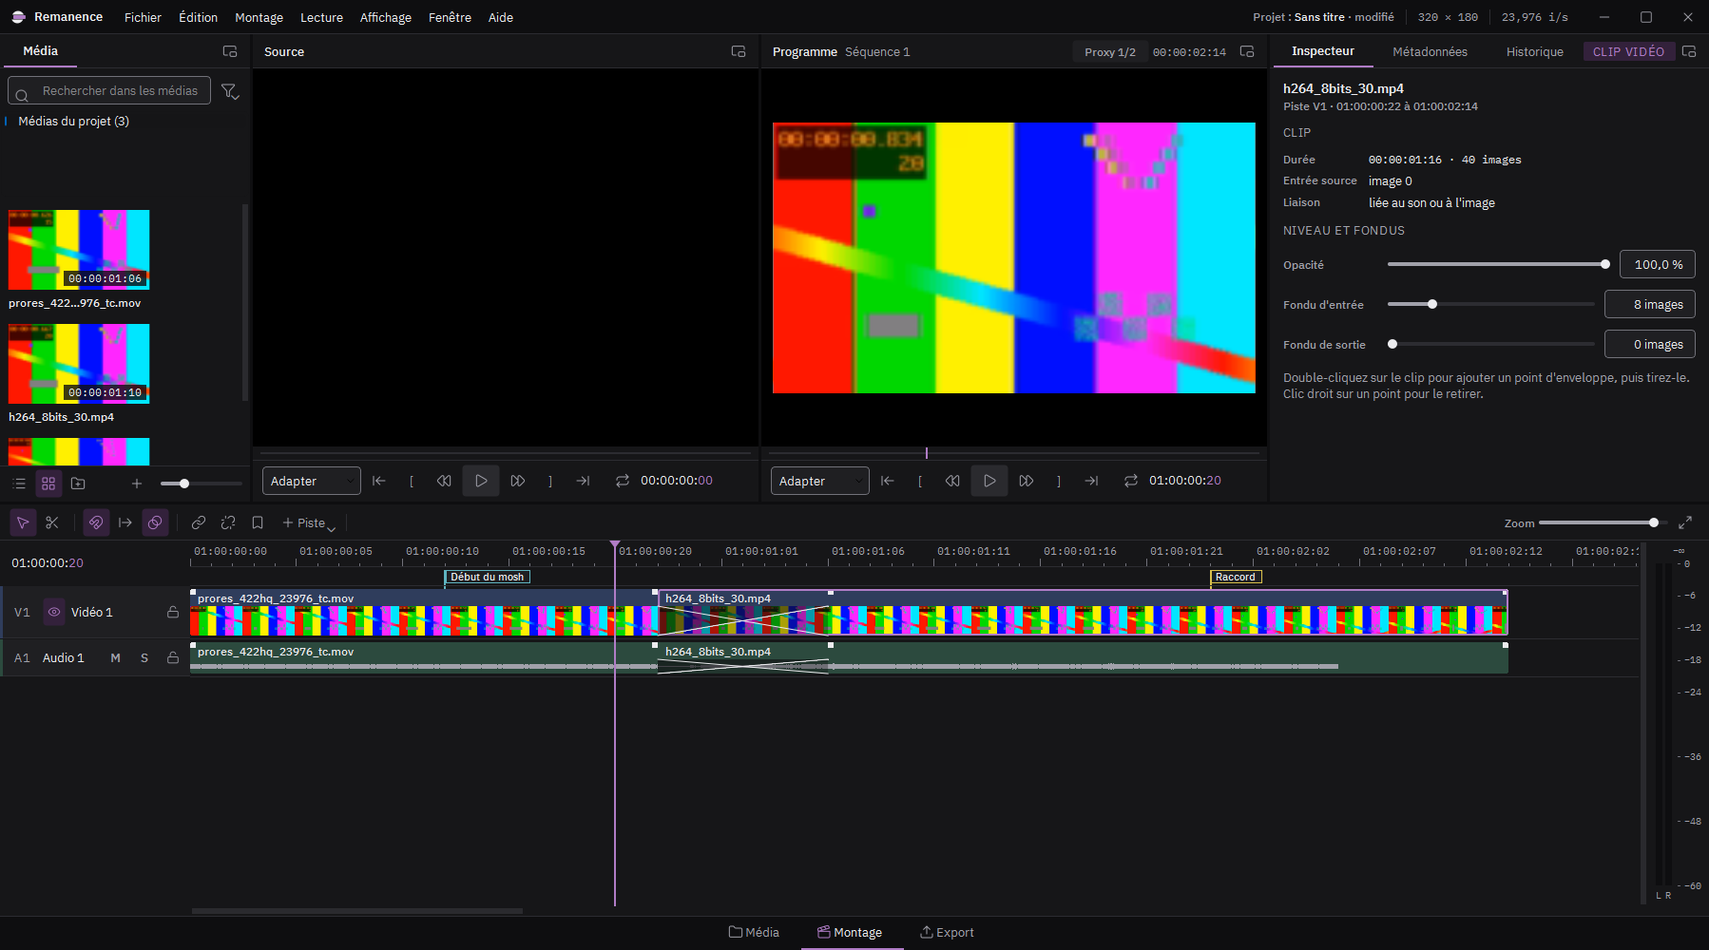
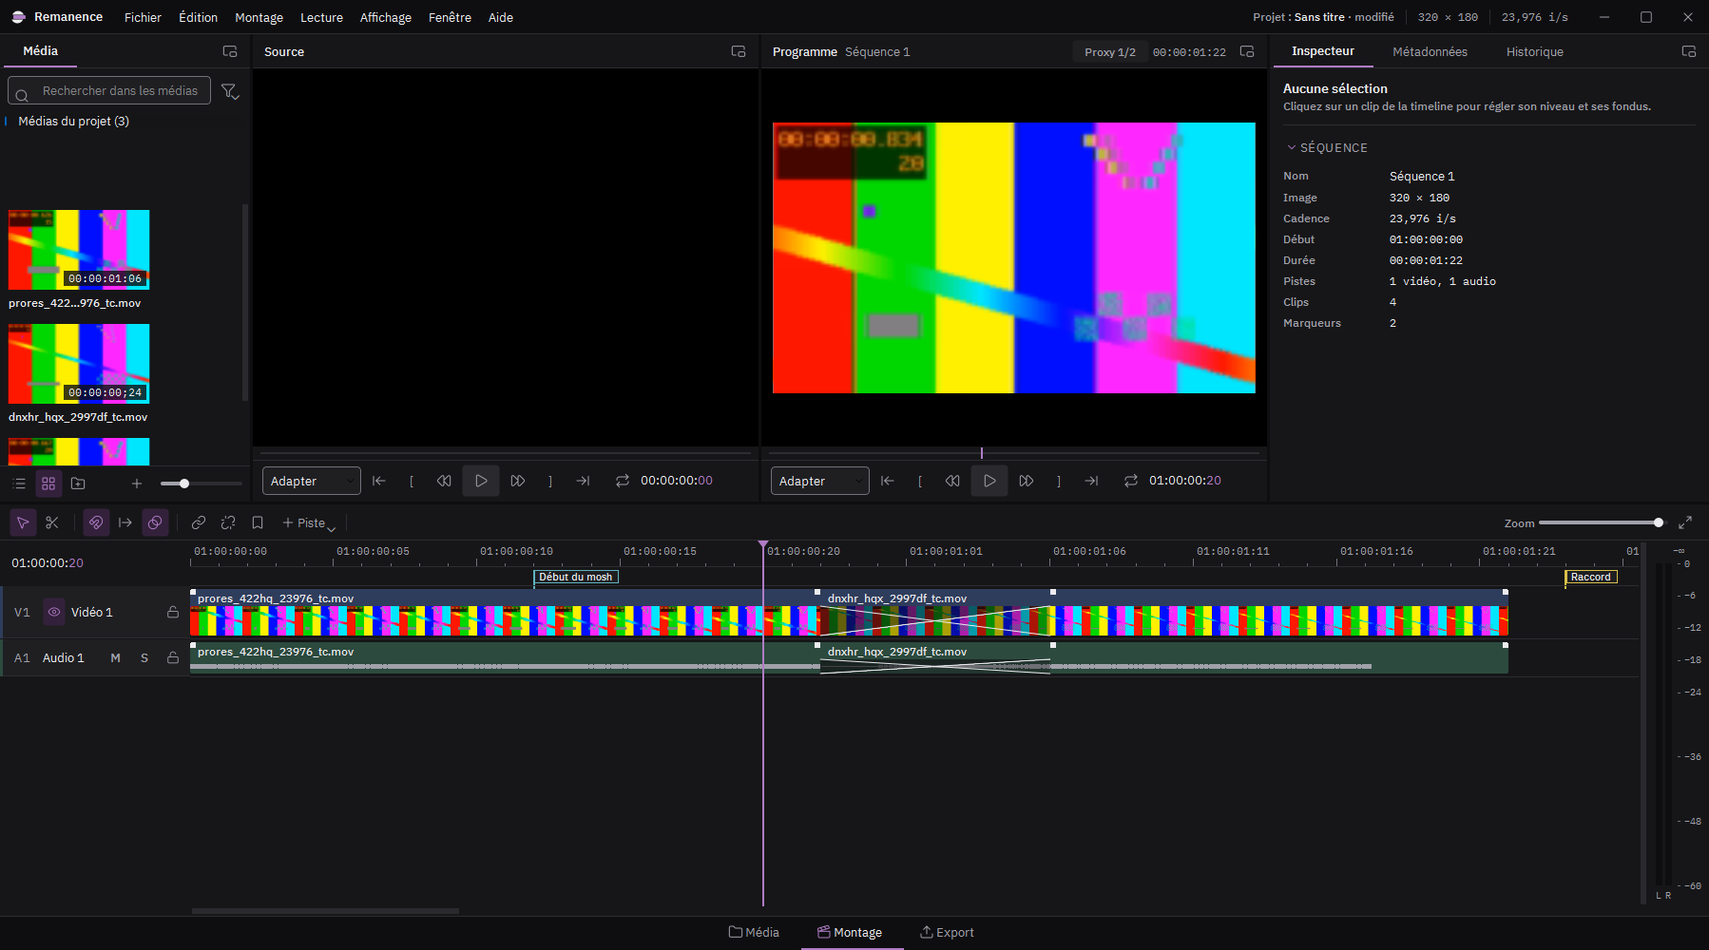
Refonte de l'interface, lot 5 : inspecteur
Sections repliables dont l'état est retenu d'un clip à l'autre et
d'une session à l'autre. Le clip montre ses sources d'entrée et de
sortie, un bouton pour réinitialiser niveau et fondus, et son
enveloppe dans sa propre section. Sans sélection, l'inspecteur décrit
la séquence. Les métadonnées sont rangées en Fichier, Vidéo et Audio.

diff --git a/remanence/ui/inspecteur.py b/remanence/ui/inspecteur.py
@@ -8,14 +8,18 @@ from PySide6.QtWidgets import (QGridLayout, QHBoxLayout, QListWidget, QListWidge
 
 from remanence.media.timecode import images_vers_tc
 from remanence.projet.modele import Media, Projet
-from remanence.ui.composants import LigneParametre, etiquette
+from remanence.ui.composants import LigneParametre, SectionRepliable, bouton_icone, etiquette
 
 
 def _effacer(layout):
     while layout.count():
         item = layout.takeAt(0)
-        if item.widget():
-            item.widget().deleteLater()
+        w = item.widget()
+        if w:
+            # Détaché tout de suite : l'ancien contenu ne reste pas visible jusqu'à sa destruction.
+            w.hide()
+            w.setParent(None)
+            w.deleteLater()
         elif item.layout():
             _effacer(item.layout())
 
@@ -66,9 +70,14 @@ class PanneauFiche(QWidget):
             s.setWordWrap(True)
             bloc.addWidget(s)
         self._lay.addLayout(bloc)
+        self._cible = self._lay
 
-    def _section(self, nom: str):
-        self._lay.addWidget(etiquette(nom, "section"))
+    def _section(self, nom: str, cle: str) -> SectionRepliable:
+        """Ouvre une section repliable : les lignes et notes suivantes s'y rangent."""
+        section = SectionRepliable(nom, cle)
+        self._lay.addWidget(section)
+        self._cible = section.contenu
+        return section
 
     def _lignes(self, lignes: list[tuple[str, str]]):
         grille = QGridLayout()
@@ -83,18 +92,20 @@ class PanneauFiche(QWidget):
             v.setTextInteractionFlags(Qt.TextSelectableByMouse)
             grille.addWidget(e, i, 0)
             grille.addWidget(v, i, 1)
+        grille.setColumnMinimumWidth(0, 100)
         grille.setColumnStretch(1, 1)
-        self._lay.addLayout(grille)
+        self._cible.addLayout(grille)
 
     def _note(self, texte: str):
         n = etiquette(texte, "secondaire")
         n.setWordWrap(True)
-        self._lay.addWidget(n)
+        self._cible.addWidget(n)
 
     def _vider(self):
         _effacer(self._lay)
         _effacer(self._lay_pied)
         self._pied.hide()
+        self._cible = self._lay
 
 
 class Metadonnees(PanneauFiche):
@@ -113,17 +124,29 @@ class Metadonnees(PanneauFiche):
     def afficher(self, media: Media):
         self._vider()
         self._titre(media.nom, "Fichier hors ligne : " + media.chemin if media.hors_ligne
-                    else media.infos.conteneur)
-        self._section("Fiche technique")
-        lignes = [(k, v) for k, v in media.infos.fiche() if k not in ("Fichier", "Attention")]
-        self._lignes(lignes)
-        alertes = [v for k, v in media.infos.fiche() if k == "Attention"]
+                    else media.chemin)
+        fiche = media.infos.fiche()
+        groupes = {"Fichier": [], "Vidéo": [], "Audio": []}
+        for k, v in fiche:
+            if k in ("Fichier", "Attention"):
+                continue
+            if k in ("Conteneur", "Durée"):
+                groupes["Fichier"].append((k, v))
+            elif k.startswith("Audio"):
+                groupes["Audio"].append((k, v))
+            else:
+                groupes["Vidéo"].append((k, v))
+        alertes = [v for k, v in fiche if k == "Attention"]
         if alertes:
-            self._section("Attention")
-            for a in alertes:
-                n = etiquette(f"Avertissement : {a}", "avertissement")
+            self._section("Attention", "meta-attention")
+            for alerte in alertes:
+                n = etiquette(f"Avertissement : {alerte}", "avertissement")
                 n.setWordWrap(True)
-                self._lay.addWidget(n)
+                self._cible.addWidget(n)
+        for nom, lignes in groupes.items():
+            if lignes:
+                self._section(nom, f"meta-{nom}")
+                self._lignes(lignes)
 
 
 class Historique(QListWidget):
@@ -159,17 +182,36 @@ class Inspecteur(PanneauFiche):
         super().__init__(parent)
         self.vide()
 
-    def vide(self):
+    def vide(self, projet: Projet | None = None, nombre: int = 0):
+        """Sans clip unique choisi : la séquence, et le nombre de clips s'il y en a plusieurs."""
         self._vider()
         self.badge.emit("")
-        self._titre("Aucune sélection")
-        self._note("Cliquez sur un clip de la timeline pour régler son niveau et ses fondus.")
+        if nombre > 1:
+            self._titre(f"{nombre} clips sélectionnés",
+                        "Choisissez un seul clip pour régler son niveau et ses fondus.")
+        else:
+            self._titre("Aucune sélection",
+                        "Cliquez sur un clip de la timeline pour régler son niveau et ses fondus.")
+        if projet is None:
+            return
+        seq = projet.sequence
+        cad = seq.fraction_cadence
+        self._section("Séquence", "sequence")
+        self._lignes([
+            ("Nom", seq.nom),
+            ("Image", f"{seq.largeur} × {seq.hauteur}"),
+            ("Cadence", f"{float(cad):.3f} i/s".replace(".", ",")),
+            ("Début", images_vers_tc(seq.tc_debut, cad, seq.tc_drop)),
+            ("Durée", images_vers_tc(seq.duree(), cad)),
+            ("Pistes", f"{len(seq.pistes_video)} vidéo, {len(seq.pistes_audio)} audio"),
+            ("Clips", str(sum(len(p.clips) for p in seq.pistes))),
+            ("Marqueurs", str(len(seq.marqueurs)))])
 
     def clip(self, projet: Projet, clip_id: str):
         seq = projet.sequence
         piste, c = seq.trouver(clip_id)
         if c is None:
-            self.vide()
+            self.vide(projet)
             return
         self._vider()
         media = projet.medias.get(c.media_id)
@@ -181,36 +223,47 @@ class Inspecteur(PanneauFiche):
         self._titre(media.nom if media else "Média manquant",
                     f"Piste {nom_court_piste(seq, piste)} · {debut} à {fin}")
 
-        self._section("Clip")
+        self._section("Clip", "clip")
         if media and media.infos.video and media.infos.video.tc_debut is not None:
             v = media.infos.video
             entree = images_vers_tc(v.tc_debut + c.entree, v.fraction_cadence, v.tc_drop)
+            sortie = images_vers_tc(v.tc_debut + c.entree + c.duree, v.fraction_cadence,
+                                    v.tc_drop)
         else:
-            entree = f"image {c.entree}"
+            entree, sortie = f"image {c.entree}", f"image {c.entree + c.duree}"
         self._lignes([("Durée", f"{images_vers_tc(c.duree, cad)} · {c.duree} images"),
                       ("Entrée source", entree),
+                      ("Sortie source", sortie),
                       ("Liaison", "liée au son ou à l'image" if c.lien else "indépendante")])
 
-        self._section("Niveau et fondus")
+        section = self._section("Niveau et fondus", "niveau")
+        if c.gain != 1.0 or c.fondu_entree or c.fondu_sortie:
+            raz = bouton_icone("rotate-ccw", "Réinitialiser : niveau à 100 %, sans fondus",
+                               taille=14)
+            raz.clicked.connect(lambda: self.reglage.emit(c.id, "reinitialiser", None))
+            section.ajouter_outil(raz)
         niveau = LigneParametre("Opacité" if video else "Volume", 0, 100, c.gain * 100, "%",
                                 100, 1, "Opacité du clip vidéo." if video
                                 else "Volume du clip audio.")
         niveau.valeur_finale.connect(lambda v: self.reglage.emit(c.id, "gain", v / 100))
-        self._lay.addWidget(niveau)
+        self._cible.addWidget(niveau)
         for champ, nom in (("fondu_entree", "Fondu d'entrée"), ("fondu_sortie", "Fondu de sortie")):
             ligne = LigneParametre(nom, 0, c.duree, getattr(c, champ), "images", 0, 0,
                                    "Se règle aussi en tirant la poignée au coin supérieur du clip.")
             ligne.champ.setFixedWidth(96)
             ligne.valeur_finale.connect(lambda v, champ=champ: self.reglage.emit(c.id, champ,
                                                                                  round(v)))
-            self._lay.addWidget(ligne)
-        self._note("Double-cliquez sur le clip pour ajouter un point d'enveloppe, puis tirez-le. "
-                   "Clic droit sur un point pour le retirer.")
+            self._cible.addWidget(ligne)
+
+        self._section("Enveloppe d'opacité" if video else "Enveloppe de volume", "enveloppe")
         if c.enveloppe:
+            self._lignes([("Points", str(len(c.enveloppe)))])
             b = QPushButton("Effacer l'enveloppe")
-            b.setToolTip(f"Retire les {len(c.enveloppe)} points de l'enveloppe "
-                         f"{'d’opacité' if video else 'de volume'} de ce clip.")
+            b.setToolTip(f"Retire les {len(c.enveloppe)} points de l'enveloppe de ce clip.")
             b.clicked.connect(lambda: self.reglage.emit(c.id, "enveloppe", []))
-            self._lay_pied.addWidget(b)
-            self._lay_pied.addStretch(1)
-            self._pied.show()
+            rang = QHBoxLayout()
+            rang.addWidget(b)
+            rang.addStretch(1)
+            self._cible.addLayout(rang)
+        self._note("Double-cliquez sur le clip pour ajouter un point, puis tirez-le. "
+                   "Clic droit sur un point pour le retirer.")

diff --git a/remanence/ui/composants.py b/remanence/ui/composants.py
@@ -9,9 +9,10 @@ from fractions import Fraction
 from PySide6.QtCore import QRectF, QSize, Qt, QTimer, Signal
 from PySide6.QtGui import QPainter
 from PySide6.QtWidgets import (QDockWidget, QHBoxLayout, QLabel, QLineEdit, QSizePolicy, QSlider,
-                               QStackedWidget, QToolButton, QWidget)
+                               QStackedWidget, QToolButton, QVBoxLayout, QWidget)
 from shiboken6 import isValid
 
+from remanence.config import reglages_interface
 from remanence.media.timecode import images_vers_tc, tc_vers_images
 from remanence.ui import charte
 
@@ -194,6 +195,57 @@ class ChampTimecode(QStackedWidget):
         self.setCurrentWidget(self.affichage)
         self.affichage.setFocus()
         self.position_demandee.emit(max(0, cible))
+
+
+class SectionRepliable(QWidget):
+    """Section de l'inspecteur : un clic sur le titre replie ou déplie le contenu.
+    L'état est retenu par clé, d'une sélection à l'autre et d'une session à l'autre."""
+
+    def __init__(self, titre: str, cle: str, parent=None):
+        super().__init__(parent)
+        self.cle = cle
+        self.setProperty("role", "section-repliable")
+        self.setAttribute(Qt.WA_StyledBackground, True)
+        lay = QVBoxLayout(self)
+        lay.setContentsMargins(0, 10, 0, 0)
+        lay.setSpacing(8)
+        tete = QHBoxLayout()
+        tete.setSpacing(4)
+        self.titre = QToolButton()
+        self.titre.setProperty("variante", "section")
+        self.titre.setText(titre)
+        self.titre.setFont(charte.actuelle().police("caption"))
+        self.titre.setToolButtonStyle(Qt.ToolButtonTextBesideIcon)
+        self.titre.setCheckable(True)
+        self.titre.setSizePolicy(QSizePolicy.Expanding, QSizePolicy.Fixed)
+        self.titre.setAccessibleName(f"Section {titre}")
+        tete.addWidget(self.titre, 1)
+        self._outils = tete
+        lay.addLayout(tete)
+        self.corps = QWidget()
+        self.contenu = QVBoxLayout(self.corps)
+        self.contenu.setContentsMargins(0, 0, 0, 4)
+        self.contenu.setSpacing(8)
+        lay.addWidget(self.corps)
+        ouvert = not reglages_interface().value(f"inspecteur/replie/{cle}", False, type=bool)
+        self.titre.setChecked(ouvert)
+        self._montrer(ouvert)
+        self.titre.toggled.connect(self._basculer)
+
+    def ajouter_outil(self, w: QWidget):
+        self._outils.addWidget(w)
+
+    def ouverte(self) -> bool:
+        return self.titre.isChecked()
+
+    def _montrer(self, ouvert: bool):
+        self.corps.setVisible(ouvert)
+        poser_icone(self.titre, "chevron-down" if ouvert else "chevron-right", 14)
+        self.titre.setToolTip("Replier la section" if ouvert else "Déplier la section")
+
+    def _basculer(self, ouvert: bool):
+        self._montrer(ouvert)
+        reglages_interface().setValue(f"inspecteur/replie/{self.cle}", not ouvert)
 
 
 class LigneParametre(QWidget):

diff --git a/tests/test_interface.py b/tests/test_interface.py
@@ -397,3 +397,36 @@ def test_panneau_media(fenetre, medias, monkeypatch):
         QMouseEvent.MouseMove, pos, p.vue.viewport().mapToGlobal(pos), Qt.NoButton, Qt.NoButton,
         Qt.NoModifier))
     assert p.survol is not None and p.survol[0] == h264.id and 0.1 < p.survol[1] < 0.4
+
+
+def test_inspecteur_sections_repliables(fenetre, medias):
+    """Sections repliables retenues d'un clip à l'autre, séquence sans sélection, remise à zéro."""
+    from remanence.ui.composants import SectionRepliable
+    w = fenetre
+    w.importer_chemins([str(medias["prores_hq"])])
+    assert _attendre(lambda: len(w.projet.medias) == 1)
+    w.poser_medias(list(w.projet.medias), 0, "")
+    titres = lambda: {s.titre.text(): s for s in w.inspecteur.findChildren(SectionRepliable)
+                      if s.isVisibleTo(w.inspecteur)}
+    assert "Séquence" in titres()
+
+    video = w.projet.sequence.pistes_video[0].clips[0]
+    w.timeline.vue._choisir({video.id})
+    sections = titres()
+    assert {"Clip", "Niveau et fondus"} <= set(sections)
+    sections["Clip"].titre.click()
+    assert not sections["Clip"].ouverte()
+    w.timeline.vue._choisir(set())
+    w.timeline.vue._choisir({video.id})
+    assert not titres()["Clip"].ouverte(), "l'état replié est retenu"
+    titres()["Clip"].titre.click()
+
+    audio = w.projet.sequence.pistes_audio[0].clips[0]
+    w.timeline.vue._choisir({video.id, audio.id})
+    assert w.badge_inspecteur.text() == ""
+
+    w.timeline.vue._choisir({video.id})
+    w.inspecteur.reglage.emit(video.id, "fondu_entree", 5)
+    assert _attendre(lambda: w.projet.sequence.pistes_video[0].clips[0].fondu_entree == 5, 2)
+    w.inspecteur.reglage.emit(video.id, "reinitialiser", None)
+    assert _attendre(lambda: w.projet.sequence.pistes_video[0].clips[0].fondu_entree == 0, 2)

diff --git a/remanence/ui/fenetre.py b/remanence/ui/fenetre.py
@@ -691,11 +691,8 @@ class FenetrePrincipale(QMainWindow):
                 self.metadonnees.afficher(media)
             if self.onglets_droite.currentIndex() == 1 and self._espace == "montage":
                 self.onglets_droite.choisir(0)
-        elif ids:
-            self.inspecteur.vide()
-            self.message(f"{len(ids)} clips sélectionnés", 3000)
         else:
-            self.inspecteur.vide()
+            self.inspecteur.vide(self.projet, len(ids))
 
     def _media_choisi(self, media):
         if media is not None:
@@ -1017,6 +1014,11 @@ class FenetrePrincipale(QMainWindow):
 
     def _reglage_clip(self, clip_id: str, champ: str, valeur):
         _, c = self.projet.sequence.trouver(clip_id)
+        if champ == "reinitialiser":
+            if c is not None:
+                c.gain, c.fondu_entree, c.fondu_sortie = 1.0, 0, 0
+                QTimer.singleShot(0, lambda: self.valider("Réinitialisation du clip"))
+            return
         if c is None or getattr(c, champ) == valeur:
             return
         if champ in ("fondu_entree", "fondu_sortie"):

diff --git a/remanence/ui/charte.py b/remanence/ui/charte.py
@@ -377,6 +377,10 @@ QToolButton[variante="panneau"]:checked {{ background: {surface_raised}; color: 
 QToolButton[variante="panneau"] {{ background: transparent; border: 1px solid transparent;
     color: {ink_muted}; }}
 QToolButton[variante="panneau"]:hover {{ background: {surface_hover}; color: {ink}; }}
+QToolButton[variante="section"] {{ background: transparent; border: 0; border-radius: 0;
+    color: {ink_muted}; padding: 0; text-align: left; }}
+QToolButton[variante="section"]:hover {{ background: transparent; color: {ink}; }}
+QWidget[role="section-repliable"] {{ border-top: 1px solid {line}; }}
 QToolButton[variante="lettre"] {{ background: transparent; border: 1px solid transparent;
     color: {ink_muted}; font-weight: 600; padding: 0; min-width: 22px; max-width: 22px;
     min-height: 22px; max-height: 22px; }}

diff --git a/CLAUDE.md b/CLAUDE.md
@@ -25,7 +25,7 @@ Logiciel Windows de montage vidéo orienté datamosh et glitch art, dans l'espri
 
 ## État d'avancement
 
-- Étape 1 (socle et visionneuse) : codée, avec la charte graphique intégrée (31 octobre 2026). Refonte de l'interface en cours (lots ci-dessous) ; lots 1 à 4 faits le 1er novembre 2026, 87 tests au vert. En attente de la validation de Lewis.
+- Étape 1 (socle et visionneuse) : codée, avec la charte graphique intégrée (31 octobre 2026). Refonte de l'interface en cours (lots ci-dessous) ; lots 1 à 5 faits le 1er novembre 2026 (refonte terminée), 88 tests au vert. En attente de la validation de Lewis.
 - Captures de référence de l'état actuel : `UI/captures/`.
 - Étapes 2 à 6 : non commencées. Ne pas passer à l'étape suivante sans validation explicite.
 
@@ -62,7 +62,7 @@ Logiciel Windows de montage vidéo orienté datamosh et glitch art, dans l'espri
 - La feuille de style Qt ne sait pas mettre en capitales : le style `caption` passe par `etiquette(..., "section")` qui pose la police.
 - Décisions validées par Lewis le 31 octobre 2026 : texte lisible en `ink-muted` (jamais `ink-faint`, 3,7:1), couleurs de `tokens.json` à la place des couleurs hors charte de la maquette (`#4a3220`, `#5a7bb8`, `#4f8f72`), étoile du bouton Effets remplacée par l'icône `layers` (antislop R-04), titre de l'écran de démarrage à 40 px comme la maquette, espaces de travail limités à Médias et Montage tant que les autres n'existent pas.
 - Défaut de la charte signalé : `success` en thème clair donne 4,499:1 sur `surface`. Il n'est posé que sur `surface-raised`.
-- Les éléments de la maquette qui dépendent des étapes suivantes (onglets Effets, Transitions, Scripts ; onglets Masque, Fusion, Modulateurs ; images clés ; badges fx ; Avant/Après ; Ripple et Slip ; espaces Glitch et Export) ne sont pas affichés tant qu'ils ne fonctionnent pas.
+- Les éléments de la maquette qui dépendent des étapes suivantes (onglets Effets, Transitions, Scripts ; onglets Masque, Fusion, Modulateurs ; images clés ; badges fx ; Avant/Après ; espaces Glitch et Export) ne sont pas affichés tant qu'ils ne fonctionnent pas.
 - Typographie : espace insécable avant « : ; ? ! % » et entre un nombre et son unité, dans tous les textes.
 - Refonte de l'interface (1er novembre 2026). Référence : `UI/refonte/maquette-refonte.webp` et `UI/refonte/refonte.md` (proposition de Lewis, pas à reproduire à l'identique ; nom « MoshStudio Pro » de la maquette remplacé par Remanence). Se rapprocher de DaVinci Resolve, esprit logiciel professionnel, dense.
   - Décisions de Lewis : thème clair supprimé ; on garde le mauve de la charte (pas le violet vif de la maquette) ; barre du haut sur une seule ligne avec les boutons de fenêtre intégrés ; deux moniteurs côte à côte (source, programme) dans l'espace Montage ; espaces de travail selon l'avancement (Média, Montage, Export maintenant ; Cut quand le montage rapide existera ; Datamosh à l'étape 3 ; Couleur et Fusion seulement s'ils entrent au cahier des charges) ; convention Vegas pour la molette et les raccourcis (flèches seules pour une image) ; fondu enchaîné automatique au chevauchement (désactivable).
@@ -72,6 +72,7 @@ Logiciel Windows de montage vidéo orienté datamosh et glitch art, dans l'espri
   - Fait au lot 2 : `Moniteur` commun (`visionneuse.py` : zoom Adapter à 200 %, barre de défilement avec E et S, transport de la maquette, timecode) pour la source et le programme ; source avec son propre `MoteurLecture` sur un mini-projet ; points E et S de la source mémorisés sur le `Media` (clé « points » du projet, facultative) ; moniteur actif (filet mauve sous l'en-tête, Q pour basculer, commandes de lecture routées) ; F9 insère (`edition.inserer_media`, qui pousse la suite), F10 écrase ; glisser l'image source vers la timeline (MIME « id@entree:sortie ») ; « Un seul moniteur » ; double écran (fenêtre sans parent, sinon restoreState la rapatrie) ; programme en plein écran (Ctrl+F, Échap). V1 = piste vidéo du bas par défaut.
   - Fait au lot 3 : panneau Média (`medias.py`) avec chutiers imbriqués (`Chutier` dans le modèle, `Media.chutier`, clés « chutiers » et « chutier » du projet, facultatives), grille ou liste (`DelegueMedia`), recherche, filtre par type, curseur de taille, survol qui fait défiler les vignettes (les 120 vignettes de la timeline servent aussi ici ; le suivi de souris doit être activé sur `viewport()`), rangement par glisser sur un chutier, import dans le chutier choisi, retrait d'un média du projet refusé tant que des clips l'utilisent.
   - Fait au lot 4 : timeline (`timeline.py`) sans la bande « Vue d'ensemble » ; en-têtes compacts (V1 et œil, A1 avec M et S, verrou ; niveau, solo vidéo, renommer, ordre et suppression au clic droit ; Ctrl+clic sur M ou S : exclusif ; bord du bas : hauteur de piste, `Piste.hauteur`, facultative) ; barre d'outils (sélection, coupe, aimantation, ripple, fondus enchaînés auto, lier, dissocier, marqueur, piste, zoom, tout voir) ; bande des marqueurs nommés et colorés (glisser, double-clic, clic droit) ; vumètres avec échelle en dB à droite de la timeline (le panneau Mixage a disparu, `VERSION_DISPOSITION = 4`) ; gestes de Vegas (Maj : sans les clips liés, Alt : slip, Ctrl+Alt : slide, Ctrl+Alt sur un bord : roll) ; poser un clip sur la fin d'un autre crée un fondu enchaîné (`edition.placer`, le clip du dessous garde son opacité : `Clip.facteur(sans_fondu_sortie=True)`) ; ripple au rognage et à la suppression (ne referme que la longueur du clip retiré). Raccourcis : Ctrl+L ripple, F8 ou N aimantation, G lier, U dissocier, haut et bas : coupe précédente ou suivante, Ctrl+gauche et droite : marqueurs.
+  - Fait au lot 5 : inspecteur en sections repliables (`SectionRepliable` dans `composants.py` ; état retenu par clé dans `inspecteur/replie/<clé>` des réglages). Clip : Clip (durée, entrée et sortie source, liaison), Niveau et fondus (bouton Réinitialiser quand quelque chose a changé, réglage « reinitialiser »), Enveloppe. Sans sélection ou avec plusieurs clips : fiche de la séquence. Métadonnées rangées en Fichier, Vidéo, Audio et Attention. Position, taille, rotation et vitesse ne sont pas affichées tant qu'elles n'existent pas (étape 5). L'ancien contenu est détaché tout de suite (`_effacer`), sinon il reste visible jusqu'à sa destruction.
   - Réglages de l'interface : toujours passer par `config.reglages_interface()`. `QSettings("Remanence", "Remanence")` écrit dans le registre même quand les tests demandent un fichier temporaire (les tests polluaient le dernier espace actif).
   - QDockWidget règle la hauteur de la barre de titre sur sa taille suggérée : les barres héritent de `BarreTitrePanneau` (36 px), sinon le contenu recouvre leur bas.
   - Lots : 1 fondations visuelles (thème, barre du haut, navigation, espaces, onglets) ; 2 moniteurs source et programme ; 3 médias (chutiers, grille, liste, recherche, survol) ; 4 timeline (en-têtes compacts, barre d'outils, marqueurs nommés, vumètres à droite, gestes) ; 5 inspecteur (sections repliables, Métadonnées, Historique).
